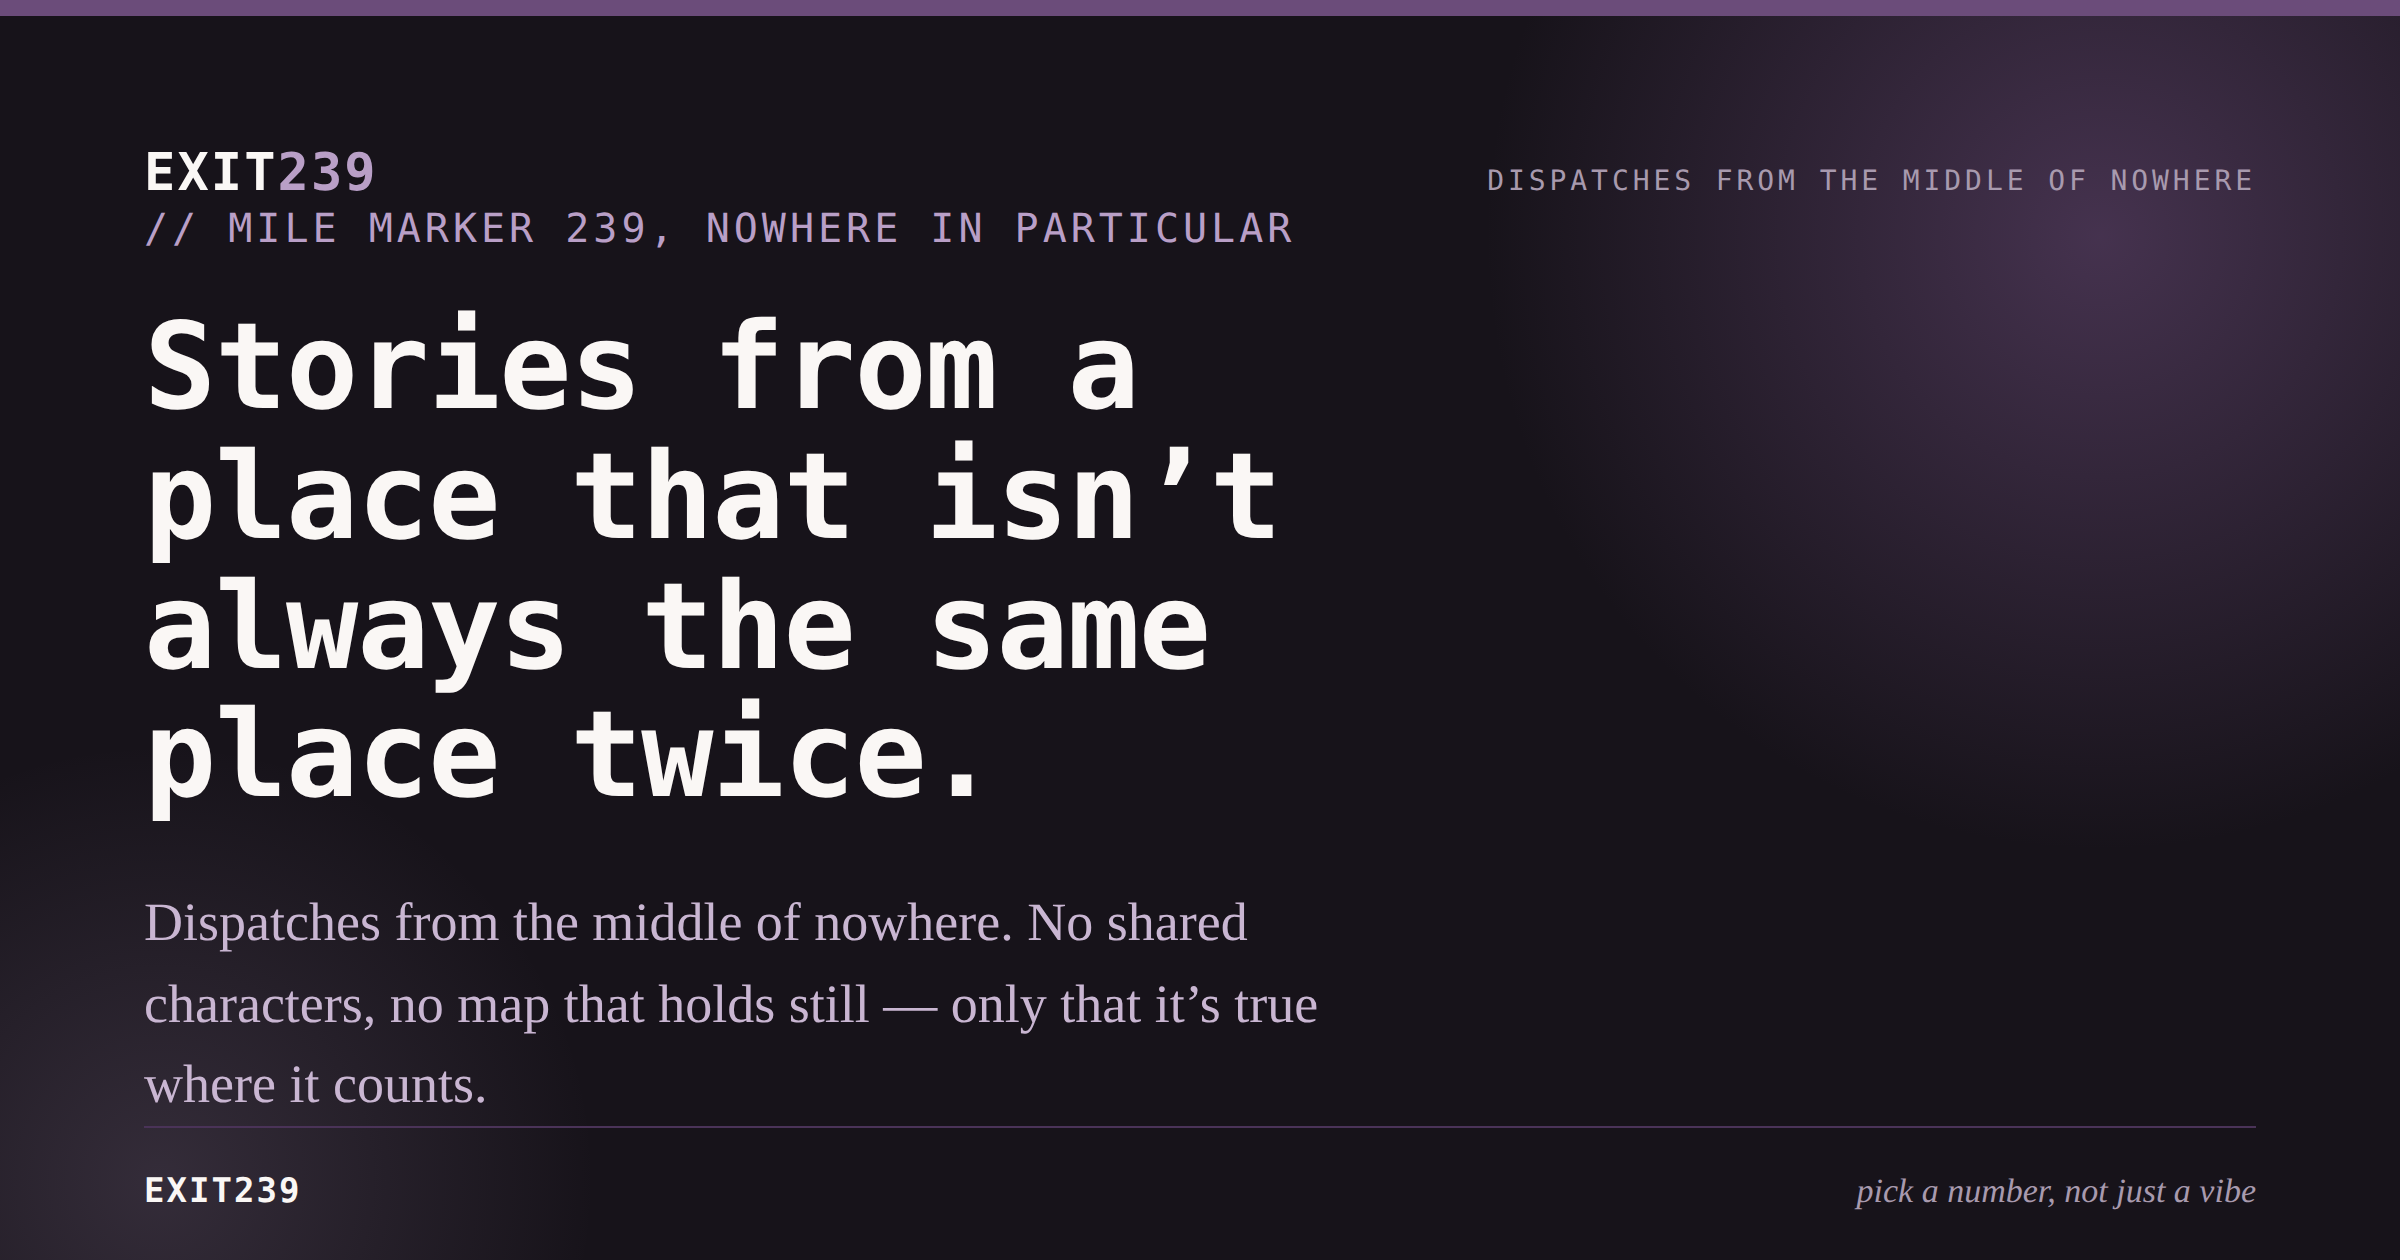
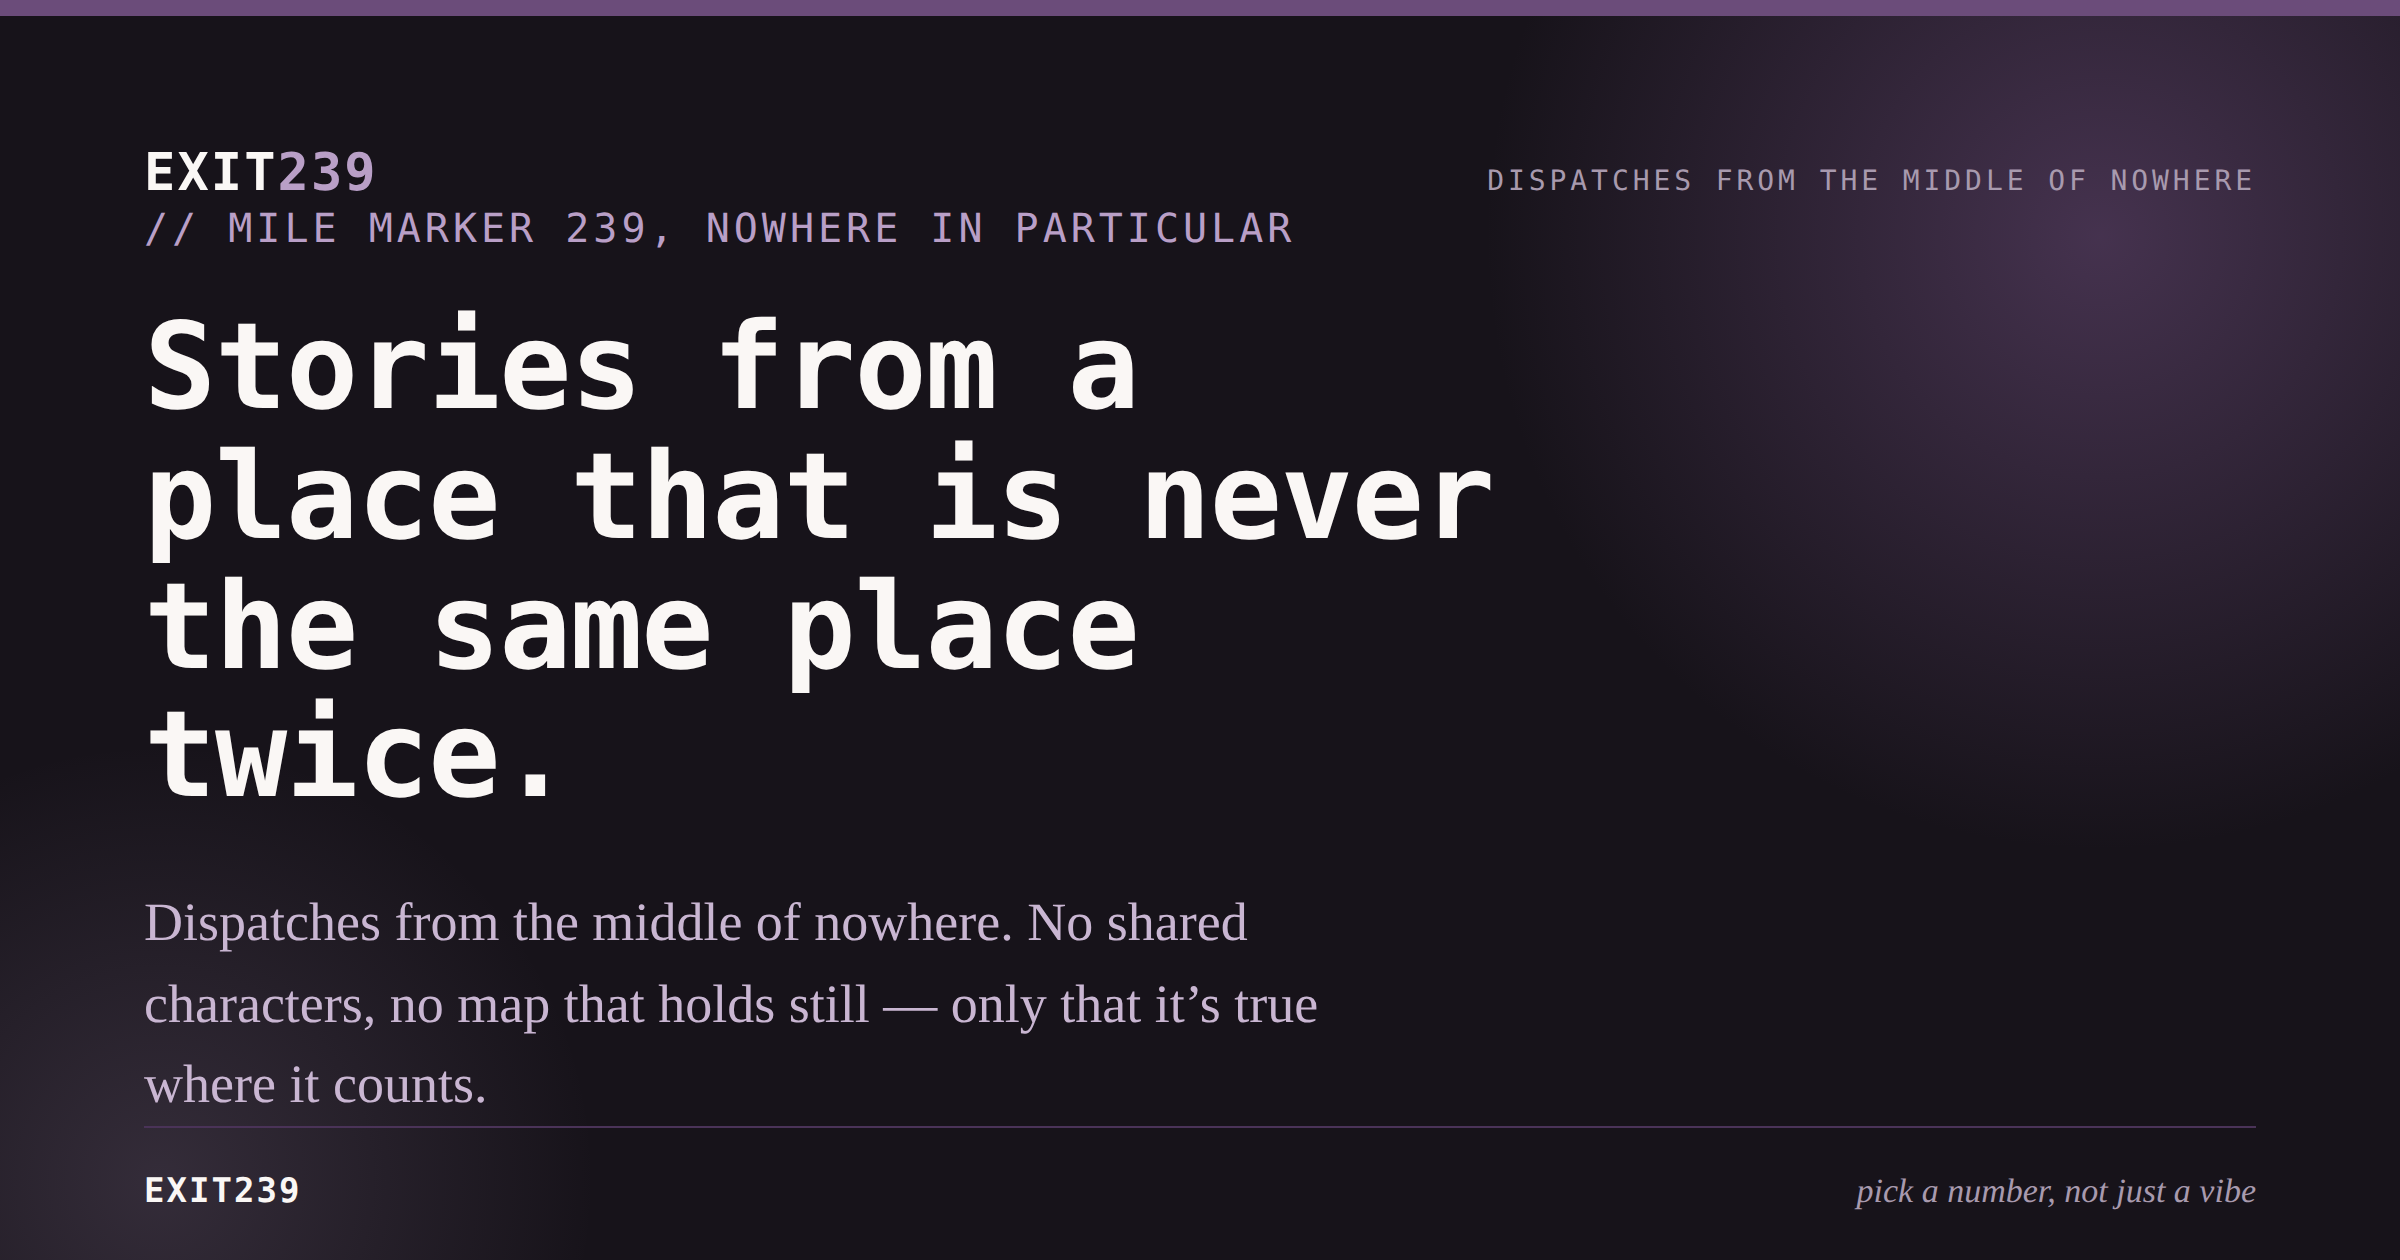
Add atmospheric hero band + image share card to Two-Show Day; update homepage headline (#5)
- Two-Show Day: full-bleed pixelated lounge image as a header band between
  the site header and the title, with a violet scrim keeping the overlaid
  title/marker legible on desktop and mobile.
- Replace the typographic Two-Show Day share card with an image-backed card
  built from the same photo (scrim + title overlay).
- Images encoded as JPEG (hero 69KB, card 92KB) to keep the pages light.
- Homepage headline: 'Stories from a place that is never the same place twice.'
  (updated the matching og:image:alt and regenerated the homepage share card).

Claude-Session: https://claude.ai/code/session_01Cp2YPZPhrs1oq42d73Xndb

Changed region(s): [[0.0625, 0.4333, 0.5, 0.65], [0.4375, 0.3405, 0.625, 0.4333], [0.0625, 0.5571, 0.1562, 0.65]]

diff --git a/two-show-day.html b/two-show-day.html
@@ -10,14 +10,14 @@
 <meta property="og:title" content="Two-Show Day — Exit239">
 <meta property="og:description" content="Same voice. Same skill. Same six years of practice. Different room, different price of admission.">
 <meta property="og:url" content="https://exit239.pages.dev/two-show-day.html">
-<meta property="og:image" content="https://exit239.pages.dev/og-two-show-day.png">
+<meta property="og:image" content="https://exit239.pages.dev/og-two-show-day.jpg">
 <meta property="og:image:width" content="2400">
 <meta property="og:image:height" content="1260">
 <meta property="og:image:alt" content="Exit 239 — Dispatch No. 01: Two-Show Day">
 <meta name="twitter:card" content="summary_large_image">
 <meta name="twitter:title" content="Two-Show Day — Exit239">
 <meta name="twitter:description" content="Same voice. Same skill. Same six years of practice. Different room, different price of admission.">
-<meta name="twitter:image" content="https://exit239.pages.dev/og-two-show-day.png">
+<meta name="twitter:image" content="https://exit239.pages.dev/og-two-show-day.jpg">
 <link rel="preconnect" href="https://fonts.googleapis.com">
 <link rel="preconnect" href="https://fonts.gstatic.com" crossorigin>
 <link href="https://fonts.googleapis.com/css2?family=Space+Mono:wght@400;700&family=Source+Serif+4:opsz,wght@8..60,400;8..60,500;8..60,600&family=Inter:wght@400;500;600&display=swap" rel="stylesheet">
@@ -117,6 +117,42 @@
     font-family: 'Inter', sans-serif;
     font-size: 14px;
     color: var(--ink-dim);
+  }
+
+  /* ===== HERO IMAGE BAND ===== */
+  .story-hero {
+    position: relative;
+    background: #17131A url('two-show-day-hero.jpg') center 42% / cover no-repeat;
+    border-bottom: 3px solid var(--violet);
+    min-height: clamp(300px, 44vw, 460px);
+    display: flex;
+    align-items: flex-end;
+  }
+  .story-hero::before {
+    content: "";
+    position: absolute;
+    inset: 0;
+    background:
+      linear-gradient(90deg, rgba(23,19,26,0.90) 0%, rgba(23,19,26,0.52) 40%, rgba(23,19,26,0.08) 68%, rgba(23,19,26,0.30) 100%),
+      linear-gradient(0deg, rgba(23,19,26,0.92) 0%, rgba(23,19,26,0.28) 44%, rgba(23,19,26,0) 72%);
+    pointer-events: none;
+  }
+  .story-hero-inner {
+    position: relative;
+    z-index: 1;
+    max-width: 680px;
+    width: 100%;
+    margin: 0 auto;
+    padding: 40px 24px 30px;
+  }
+  .story-hero .dispatch-marker { color: var(--violet-light); }
+  .story-hero .story-title {
+    color: #FAF7F5;
+    text-shadow: 0 2px 18px rgba(0,0,0,0.55);
+  }
+  .story-hero .story-sub {
+    color: #C9B6D2;
+    text-shadow: 0 1px 10px rgba(0,0,0,0.5);
   }
 
   /* ===== SIGNATURE INTERACTION: afternoon/night toggle ===== */
@@ -362,11 +398,13 @@
   </div>
 </header>
 
-<div class="story-meta">
-  <div class="dispatch-marker">EXIT 239 — DISPATCH NO. 01</div>
-  <h1 class="story-title">Two-Show Day</h1>
-  <p class="story-sub">Same voice. Same skill. Same six years of practice. Different room, different price of admission.</p>
-</div>
+<section class="story-hero">
+  <div class="story-hero-inner">
+    <div class="dispatch-marker">EXIT 239 — DISPATCH NO. 01</div>
+    <h1 class="story-title">Two-Show Day</h1>
+    <p class="story-sub">Same voice. Same skill. Same six years of practice. Different room, different price of admission.</p>
+  </div>
+</section>
 
 <p class="toggle-intro">She plays two rooms today — a hundred-and-ten-seat lounge in the afternoon, an eighteen-hundred-seat theater at night. Pick a room to start in.</p>
 

diff --git a/index.html b/index.html
@@ -13,7 +13,7 @@
 <meta property="og:image" content="https://exit239.pages.dev/og-index.png">
 <meta property="og:image:width" content="2400">
 <meta property="og:image:height" content="1260">
-<meta property="og:image:alt" content="Exit239 — Stories from a place that isn't always the same place twice.">
+<meta property="og:image:alt" content="Exit239 — Stories from a place that is never the same place twice.">
 <meta name="twitter:card" content="summary_large_image">
 <meta name="twitter:title" content="Exit239 — Dispatches from the middle of nowhere">
 <meta name="twitter:description" content="Three dispatches so far. No shared characters, no map that holds still — only that it's true where it counts.">
@@ -364,7 +364,7 @@
 
 <section class="hero">
   <div class="hero-eyebrow">// mile marker 239, nowhere in particular</div>
-  <h1>Stories from a place that isn't always the same place twice.</h1>
+  <h1>Stories from a place that is never the same place twice.</h1>
   <p>Three dispatches so far. No shared characters, no map that holds still, no promise it'll make sense — only that it's true where it counts.</p>
 </section>
 